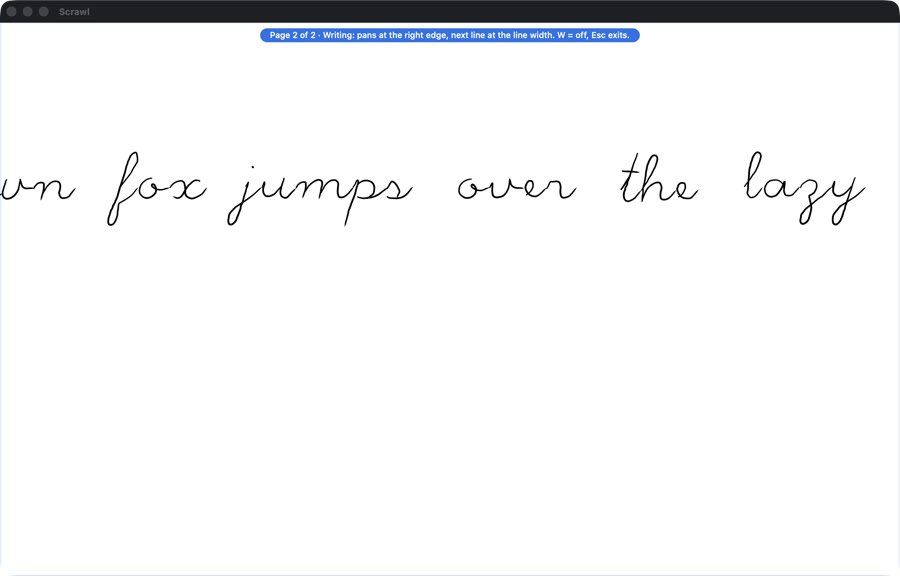
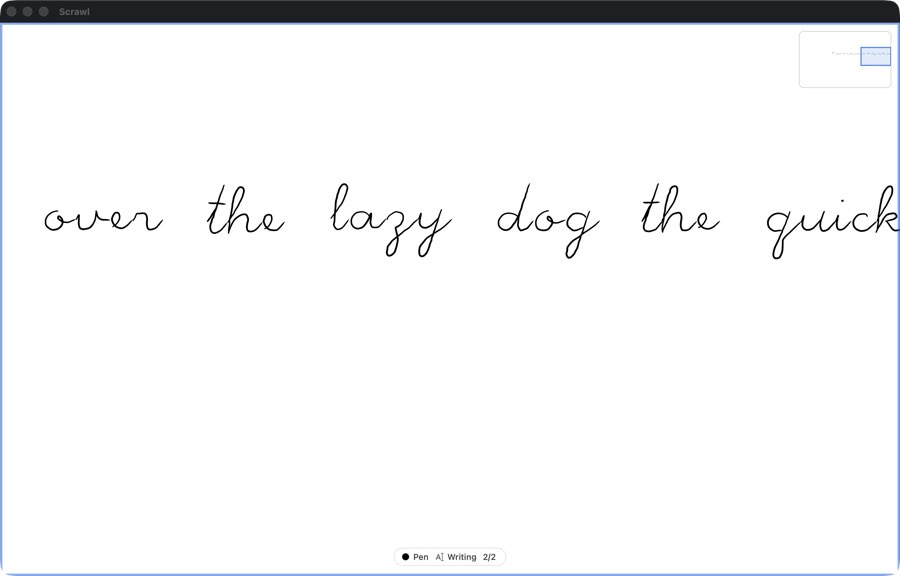
Robot report: build 2, 115/115 checks in 30 scenarios, before/after per feature, screenshots

Changed region(s): [[0.0, 0.0312, 1.0, 1.0], [0.6844, 0.2812, 0.8089, 0.4062], [0.4978, 0.3125, 0.6533, 0.4375]]

diff --git a/docs/robot-report.md b/docs/robot-report.md
@@ -4,28 +4,45 @@
 writes `build/robot/report.html`, with a screenshot for every step. This page records the run that
 proved it catches real bugs.
 
-## Main (7789f1e + fixes): 51 of 51 checks pass
+## Main, build 2: 115 of 115 checks pass
 
-The run covers 20 scenarios in about 13 minutes, in the background:
-- toggles from keys and the toolbar;
-- writing mode at zoom 1 and 3, in every line width and pan mode;
-- double-tap undo and redo;
-- the eraser, including a pan that starts on ink;
-- pages and the overview;
-- four window shapes;
-- a 9,000-stroke notebook;
-- a recorded session;
-- quit and relaunch.
+30 scenarios, 11 minutes, all in the background. Each feature in this round was proven the same way: its
+scenario fails on the build before it and passes after.
 
-| Measure | Main |
+| Feature | Before | After |
+|---|---|---|
+| Scratch-out and undo scrub | 4/8 | 8/8 |
+| Writing flow: words still visible after a pan (left mode) | 1 | 2–3 |
+| Writing flow: largest pan jump | 81% of the view | 47% |
+| Writing flow: lines in view after a new line, with two written | 1 | 2 |
+| Pan right by hand, then write (the parked pan bug) | page jumps back to the margin (x 800 → 8) | stays |
+| Page map | 2/6 | 6/6 |
+| Draw mode starts where you last wrote | 2/3 | 3/3 |
+| Quiet draw mode | 0/5 (the banner never faded) | 5/5 |
+| Toolbar and Settings | 1/5 | 6/6 |
+| Tips and the practice page | 0/5 | 6/6 |
+| Haptics, pending-move chevron, undo fade | 0/3 | 3/3 |
+| Overview crop, titles, search, copy, share | 0/7 | 7/7 |
+| Usage counts | n/a (new) | 4/4 |
+
+The run also covers toggles from keys and the toolbar, writing mode in every width and pan mode, double-tap
+undo/redo, the eraser and a pan starting on it, pages and the overview, four window shapes, a 9,000-stroke
+notebook, Karthik's recorded touch frames, and quit and relaunch.
+
+| Measure | Before this round | Now |
+|---|---|---|
+| Page moves inside a word | 0 | 0 |
+| Longest main-thread stall writing on a 9,000-stroke notebook | 25 ms | 26 ms (0 over 50 ms) |
+| Ink jitter (checks/jitter.sh) | 0.66 pt | 0.59 pt |
+| Strokes kept replaying 45 s of Karthik's touches | 60 (session kept 59) | 60 |
+
+| | |
 |---|---|
-| Page moves inside a word (11 writing runs, 7–18 words each) | 0 |
-| Longest main-thread stall while writing on a 9,000-stroke notebook | 25 ms (0 over 50 ms) |
-| Strokes kept when replaying 45 s of Karthik's touches (palms included) | 60 (the session kept 59) |
-| Strokes back after quit and relaunch | all, on every page |
-| Key press to visible change, seen from outside | 120–250 ms (upper bound, see below) |
-
-![Writing mode at zoom 3 on main](robot/main-write-zoom3.jpg)
+| ![a word, then a zig-zag over it](robot/scratch-before.jpg) | ![scratched out](robot/scratch-after.jpg) |
+| ![writing at zoom 3](robot/main-write-zoom3.jpg) | ![page map, top right](robot/page-map.jpg) |
+| ![draw mode: capsule and frame](robot/draw-mode-capsule.jpg) | ![the regrouped toolbar](robot/toolbar.jpg) |
+| ![overview with handwriting titles](robot/overview-titles.jpg) | ![searching handwriting](robot/overview-search.jpg) |
+| ![practice page](robot/practice.jpg) | ![Settings](robot/settings.jpg) |
 
 ## The same robot on old commits with known bugs
 
